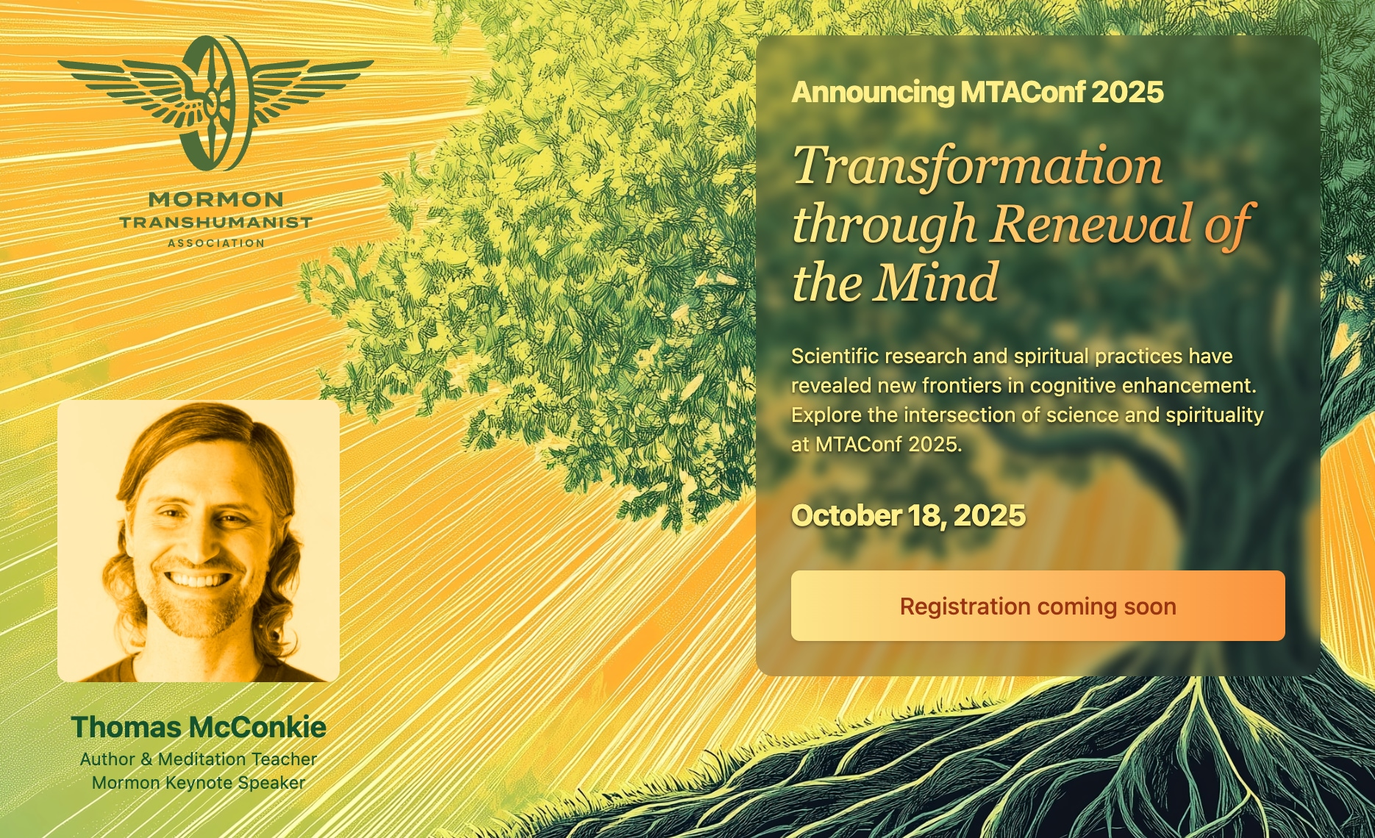
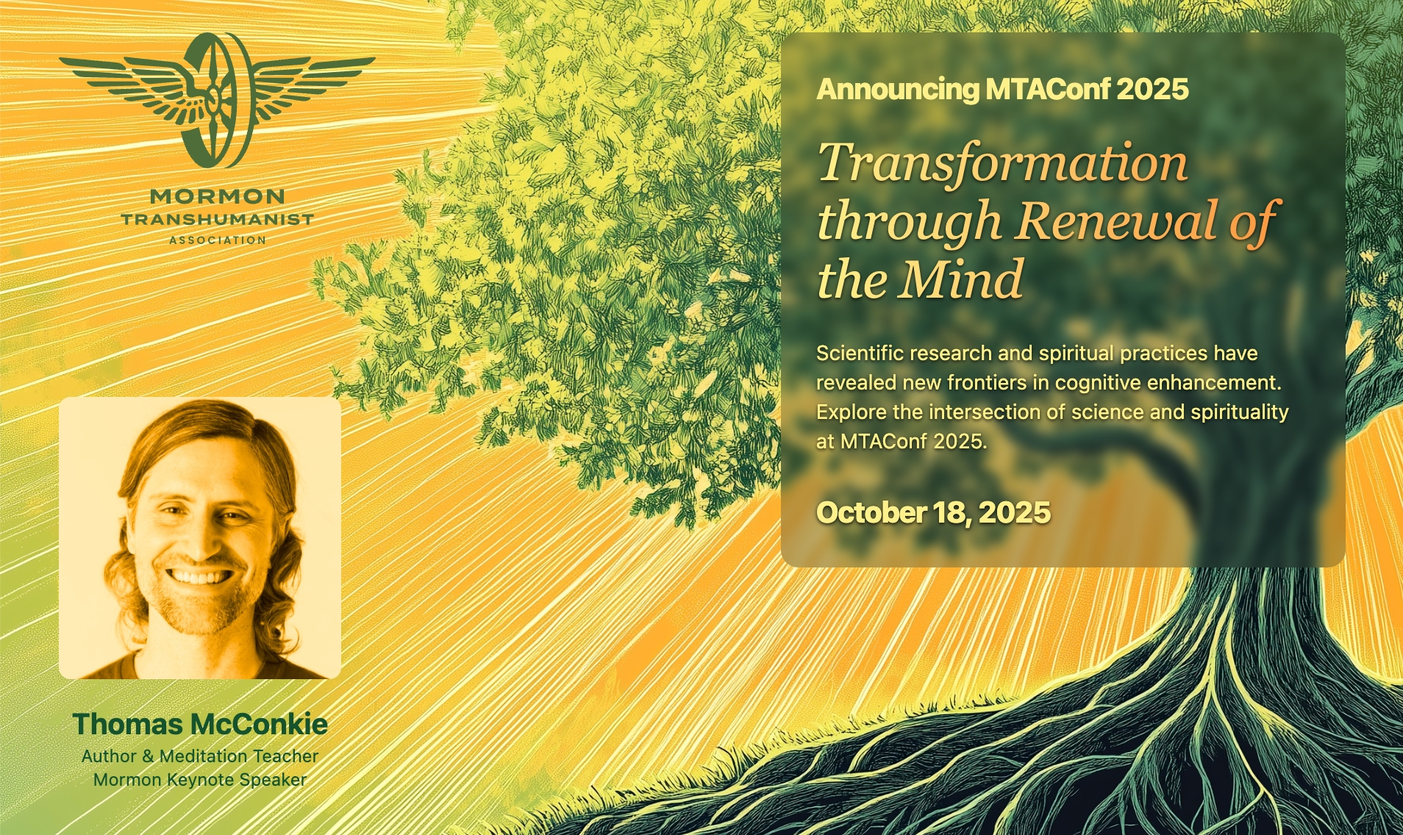
Update background essay

diff --git a/src/2025/hero.tsx b/src/2025/hero.tsx
@@ -89,7 +89,7 @@ export function Hero() {
 										<div className="mt-3 text-md sm:text-xl tracking-tight font-extrabold text-yellow-200 drop-shadow-[0_1.2px_1.2px_rgba(0,0,0,0.8)]">
 											October 18, 2025
 										</div>
-										<div className="mt-4 sm:mt-6">
+										{/* <div className="mt-4 sm:mt-6">
 											<div className="sm:flex">
 												<div className="min-w-0 flex-1">
 													<a href="https://www.ticketsource.us/mormon-transhumanist-association">
@@ -102,7 +102,7 @@ export function Hero() {
 													</a>
 												</div>
 											</div>
-										</div>
+										</div> */}
 									</div>
 								</div>
 							</div>
